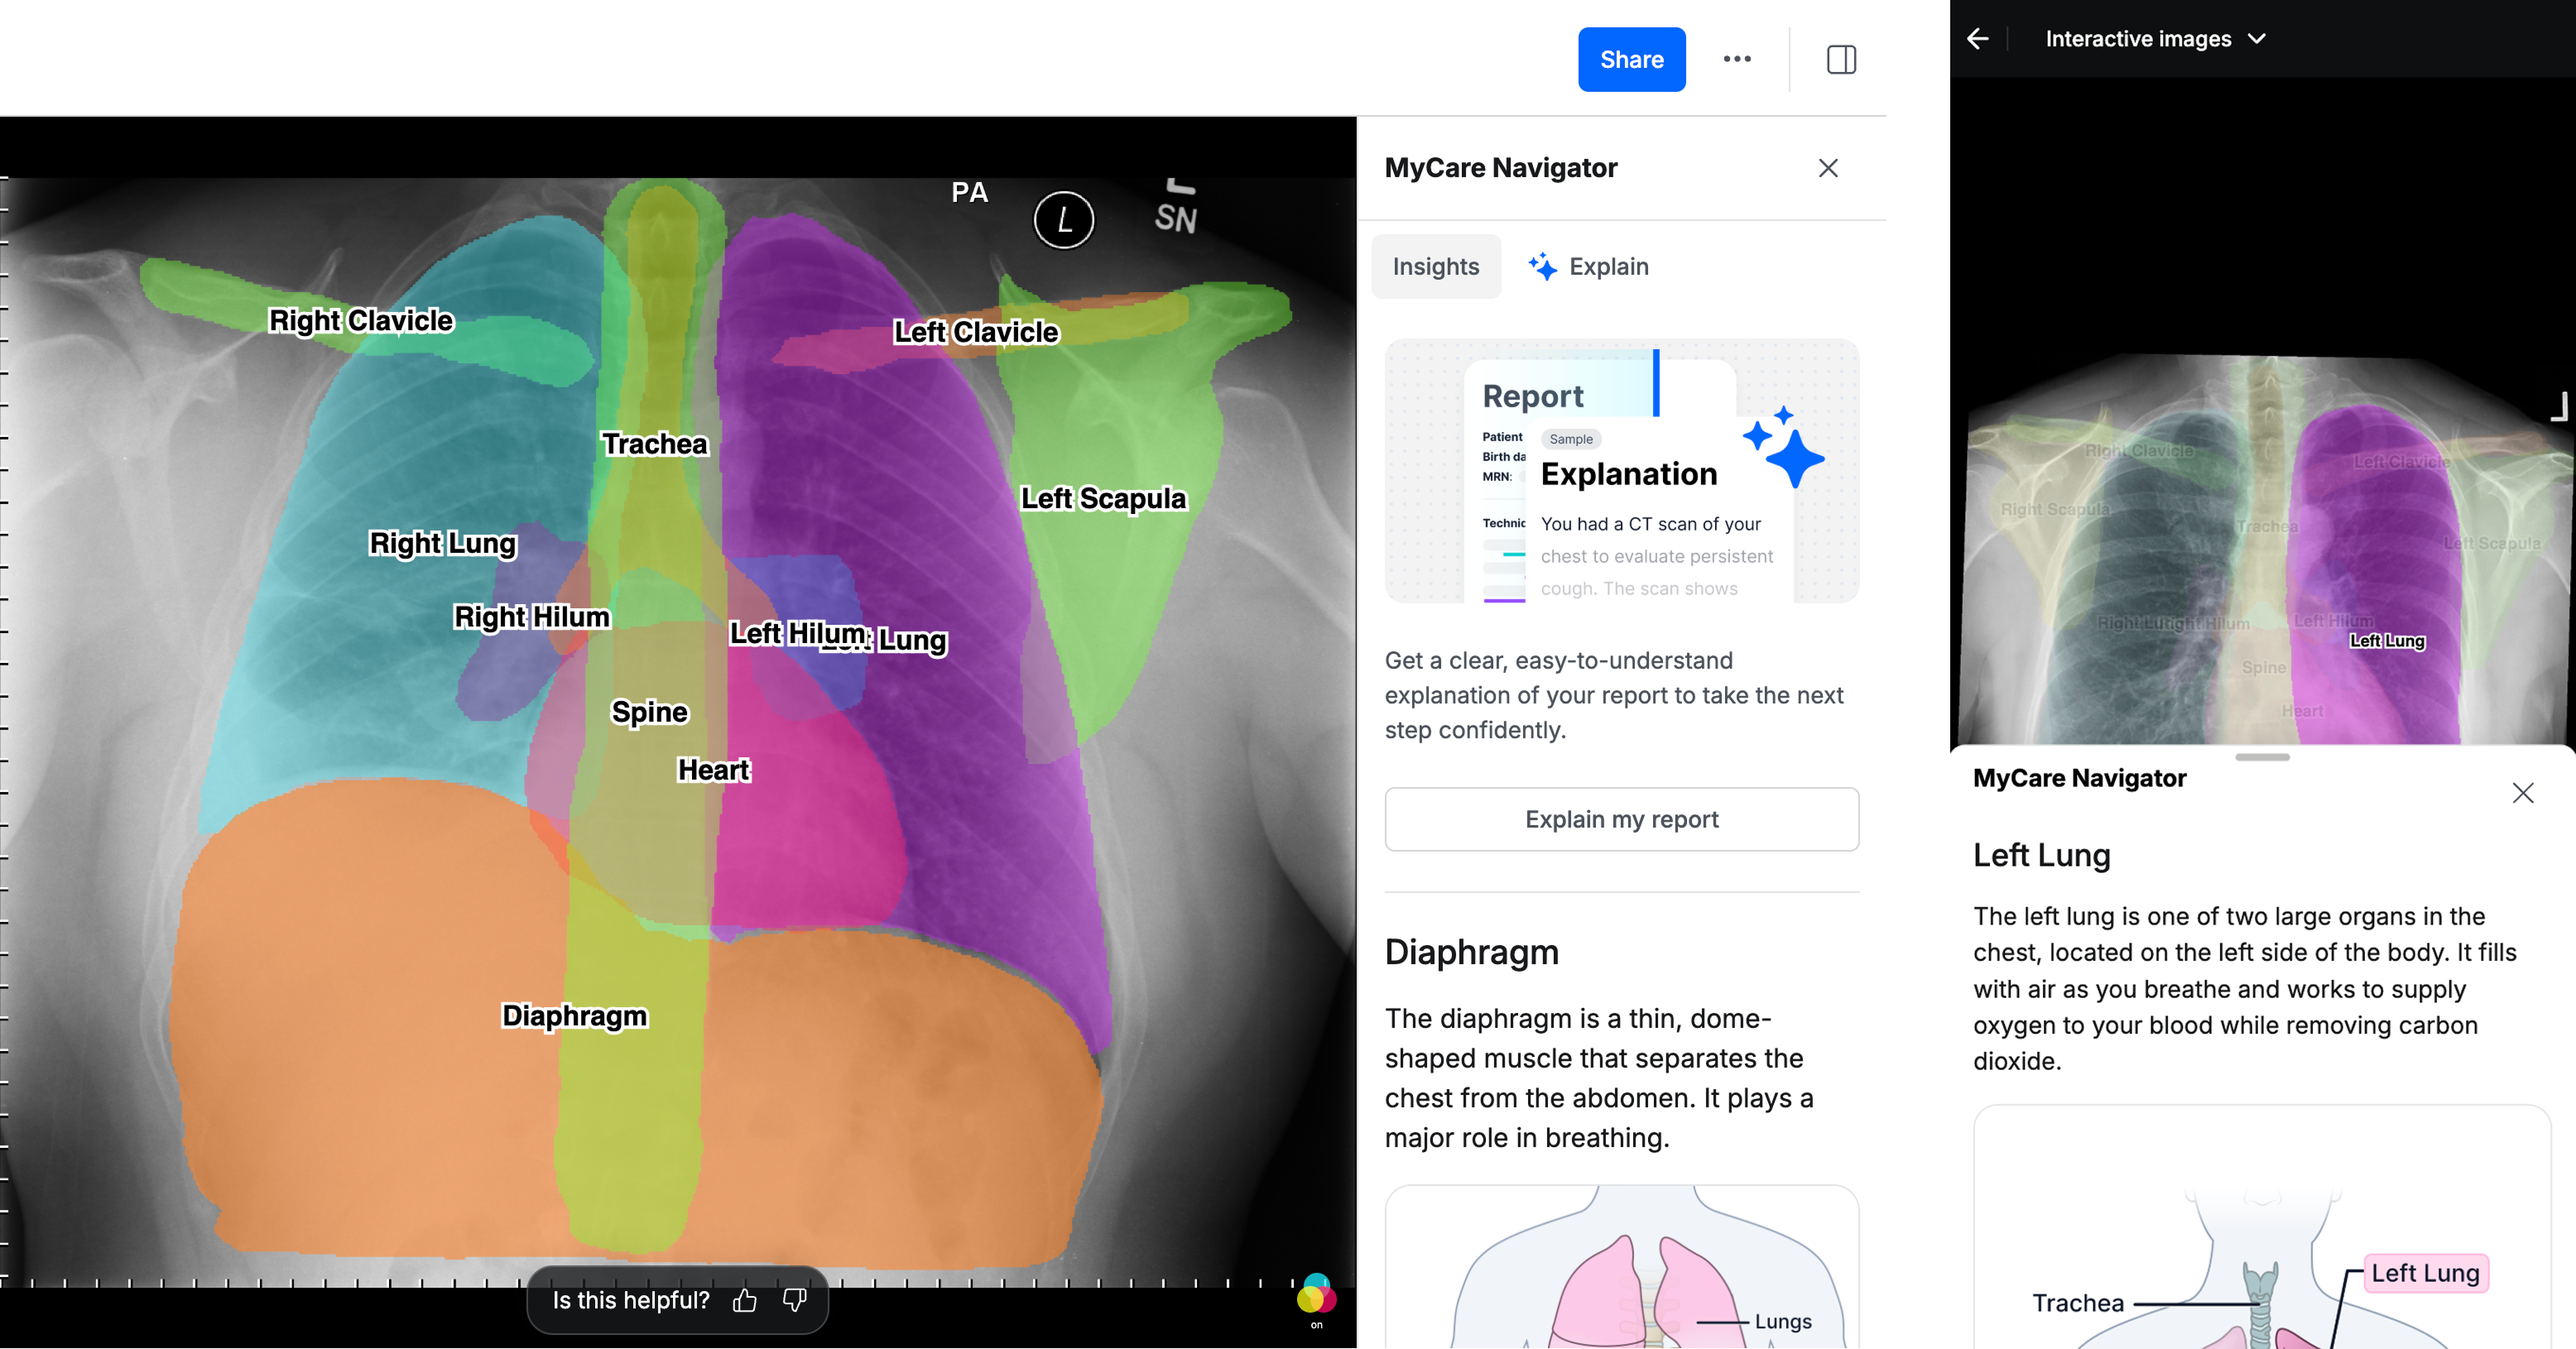
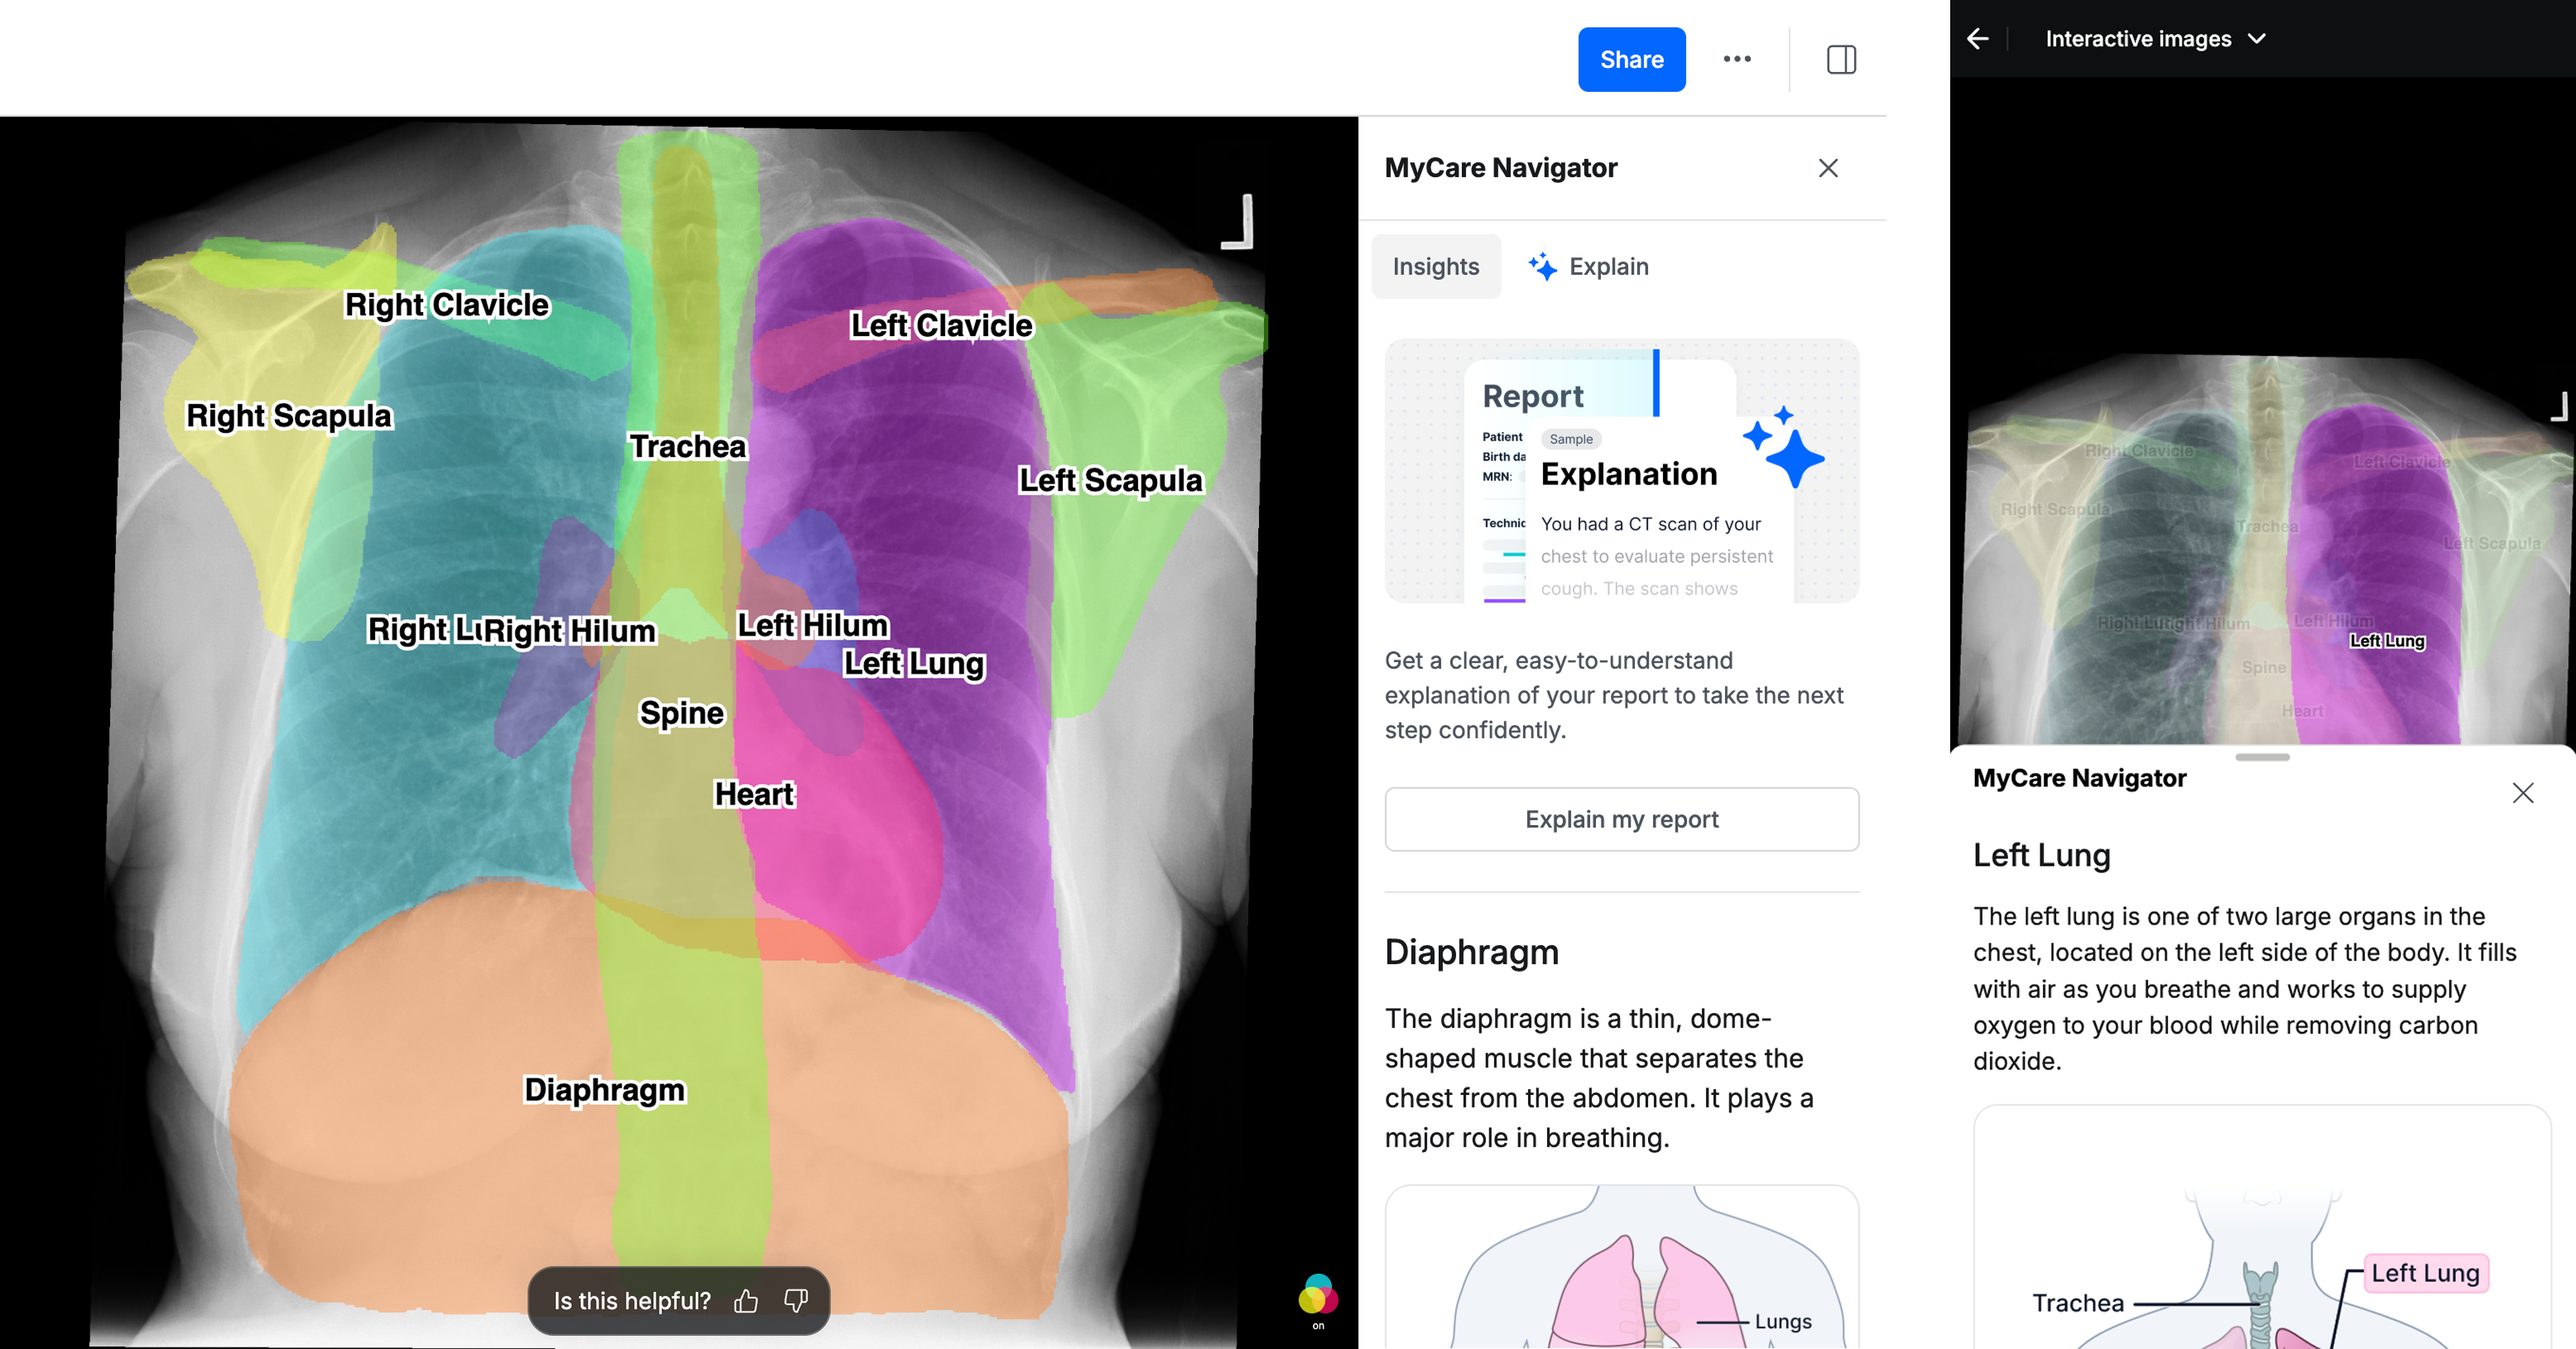
feat: add work page

diff --git a/src/components/sections/experience/Experience.js b/src/components/sections/experience/Experience.js
@@ -1,0 +1,93 @@
+import styles from "./Experience.module.scss";
+import report_explanations from "../../../assets/images/report_explanations.png";
+import iir from "../../../assets/images/iir.png";
+
+const Experience = () => {
+  return (
+    <section className={styles.experience}>
+      <h1>
+        <span className="accent-blue">/</span>work
+      </h1>
+      <Scotiabank />
+      <PocketHealth />
+      <UofT />
+    </section>
+  );
+};
+
+const Scotiabank = () => {
+  return (
+    <div>
+      <header>
+        <h2>Scotiabank</h2>
+        <span>Software Engineer, 2026-present</span>
+      </header>
+      <p>
+        Enhancing banking activation and authentication flows at Scotia,
+        building React applications and backend-for-frontend services for web
+        and mobile clients.
+      </p>
+    </div>
+  );
+};
+
+const PocketHealth = () => {
+  return (
+    <div>
+      <header>
+        <h2>PocketHealth</h2>
+        <span>Software Engineer, 2024-2026</span>
+      </header>
+      <p>
+        <i>
+          A platform that enables patients and hospitals to access their medical
+          imaging results.
+        </i>
+      </p>
+      <br />
+      <p>
+        As a frontend-leaning engineer on the patient AI team, I implemented
+        features within the medical exam viewer and health records section for
+        the patient-facing app. I also worked on backend microservices and
+        supported LLM evaluation processes. The tech stack consisted of Angular,
+        Go, and Python. My favourite features I owned on the frontend were{" "}
+        <strong>report explanations</strong>, a UI to display AI-generated
+        explanations of radiology reports, and{" "}
+        <strong>interactive image reader</strong>, an interactive visualization
+        of patients' imaging for organ-level exploration.{" "}
+      </p>
+      <br />
+      <details>
+        <summary>Report explanations</summary>
+        <img src={report_explanations}></img>
+      </details>
+      <details>
+        <summary>Interactive image reader</summary>
+        <img src={iir}></img>
+      </details>
+    </div>
+  );
+};
+
+const UofT = () => {
+  return (
+    <div>
+      <header>
+        <h2>University of Toronto</h2>
+        <span>Designer/Misc, 2019-2024</span>
+      </header>
+      <p>
+        During my CS studies, I dabbled in a variety of design jobs since I
+        always loved the creative side of technology. I designed some branding
+        solutions for clients with my team at <strong>UDesign</strong>. I also
+        worked for the university newspaper, <strong>The Varsity</strong>, and
+        put together layouts for their weekly issues. In my last year, I spent a
+        lot of time as the graphic designer for <strong>Hatchery</strong>,
+        creating social media and marketing assets (as well as shooting videos
+        and interviewing students!).
+      </p>
+    </div>
+  );
+};
+
+export default Experience;

diff --git a/src/components/sections/experience/Experience.module.scss b/src/components/sections/experience/Experience.module.scss
@@ -1,0 +1,81 @@
+@use "../../../styles/breakpoints.scss" as *;
+
+.experience {
+  display: flex;
+  flex-direction: column;
+  align-items: center;
+  gap: var(--spacing-48);
+
+  h1 {
+    font-size: var(--font-size-48);
+    font-family: var(--font-poppins);
+    font-weight: var(--font-weight-bold);
+
+    > span {
+      font-weight: var(--font-weight-bold);
+    }
+  }
+
+  div {
+    width: 60%;
+
+    header {
+      display: flex;
+      justify-content: space-between;
+      align-items: baseline;
+      margin-bottom: var(--spacing-12);
+
+      h2 {
+        font-size: var(--font-size-32);
+        margin: 0;
+      }
+
+      span {
+        font-size: var(--font-size-18);
+        font-weight: var(--font-weight-light);
+      }
+    }
+
+    img {
+      width: 100%;
+    }
+
+    details {
+      margin: var(--spacing-10) 0;
+    }
+  }
+
+  @media (max-width: $laptop) {
+    div {
+      width: 70%;
+    }
+  }
+
+  @media (max-width: $tablet) {
+    div {
+      width: 90%;
+    }
+  }
+
+  @media (max-width: $mobile) {
+    gap: var(--spacing-32);
+
+    h1 {
+      font-size: var(--font-size-36);
+    }
+
+    div {
+      width: 100%;
+
+      header {
+        flex-direction: column;
+        gap: 2px;
+        margin-bottom: 18px;
+
+        h2 {
+          font-size: var(--font-size-28);
+        }
+      }
+    }
+  }
+}

diff --git a/src/App.js b/src/App.js
@@ -14,6 +14,7 @@ import { useEffect } from "react";
 import AfterHours from "./pages/AfterHours";
 import Post from "./components/sections/fun/Post";
 import { DarkModeContext } from "./context/DarkModeContext";
+import Work from "./pages/Work";
 
 function App() {
   return (
@@ -48,6 +49,7 @@ function AppContent() {
               <Route path="design" element={<Portfolio />} />
               <Route path=":slug" element={<Project />} />
             </Route>
+            <Route path="/work" element={<Work />} />
             <Route path="/about" element={<About />} />
             <Route path="/fun" element={<AfterHours />}>
               <Route path=":slug" element={<Post />} />

diff --git a/src/components/sections/about/About.js b/src/components/sections/about/About.js
@@ -15,8 +15,7 @@ const AboutInfo = () => {
         <p>
           On my own time, I love watching movies, reading books, walking around
           the city, pottery and crocheting sometimes, cooking and dining out,
-          skating (on ice and board), playing chill games, and flying to new
-          places.
+          skating, painting, playing chill games, and flying to new places.
         </p>
       </div>
     </section>

diff --git a/src/components/layout/header/Header.js b/src/components/layout/header/Header.js
@@ -5,7 +5,9 @@ import styles from "./Header.module.scss";
 const Header = () => {
   return (
     <header className={styles.header}>
-      <Link to="/">Johanna Zhang</Link>
+      <Link to="/" className={styles.name}>
+        Johanna Zhang
+      </Link>
       <Navigation />
     </header>
   );

diff --git a/src/styles/main.scss b/src/styles/main.scss
@@ -36,6 +36,7 @@
   --spacing-32: 32px;
   --spacing-36: 36px;
   --spacing-40: 40px;
+  --spacing-48: 48px;
   --spacing-64: 64px;
 }
 
@@ -112,7 +113,7 @@ summary {
 }
 
 .accent-blue {
-  color: var(--powder-blue-muted);
+  color: var(--powder-blue);
 }
 
 .project-subtitle {

diff --git a/src/components/layout/header/navigation/Navigation.js b/src/components/layout/header/navigation/Navigation.js
@@ -8,6 +8,7 @@ const Navigation = () => {
   const navigationItems = [
     { label: "Home", link: "/" },
     { label: "Portfolio", link: "/portfolio" },
+    { label: "Work", link: "/work" },
     { label: "Fun", link: "/fun" },
     { label: "About", link: "/about" },
   ];

diff --git a/src/components/sections/fun/Museums/Museums.module.scss b/src/components/sections/fun/Museums/Museums.module.scss
@@ -57,6 +57,7 @@
         right: -120px;
         top: 50%;
         transform: translateY(-50%);
+        font-family: "Space Grotesk", system-ui, sans-serif;
         font-size: 12px;
         opacity: 0.8;
       }

diff --git a/src/components/sections/projects/Projects.module.scss b/src/components/sections/projects/Projects.module.scss
@@ -20,7 +20,7 @@
     grid-template-columns: repeat(2, 1fr);
     gap: var(--spacing-24);
     width: 70%;
-    margin: 48px auto;
+    margin: var(--spacing-48) auto;
   }
 
   @media (max-width: $desktop) {

diff --git a/src/pages/Work.js b/src/pages/Work.js
@@ -1,0 +1,11 @@
+import Experience from "../components/sections/experience/Experience";
+
+const Work = () => {
+  return (
+    <div>
+      <Experience />
+    </div>
+  );
+};
+
+export default Work;

diff --git a/src/components/sections/fun/FarmLife/FarmLife.module.scss b/src/components/sections/fun/FarmLife/FarmLife.module.scss
@@ -87,7 +87,7 @@
 
   @media (max-width: $mobile) {
     h1 {
-      font-size: var(--font-size-32);
+      font-size: var(--font-size-36);
     }
 
     .container {

diff --git a/src/components/layout/header/Header.module.scss b/src/components/layout/header/Header.module.scss
@@ -7,5 +7,9 @@
   a {
     font-weight: var(--font-weight-light);
     letter-spacing: 0.5px;
+
+    &.name {
+      color: var(--black);
+    }
   }
 }
